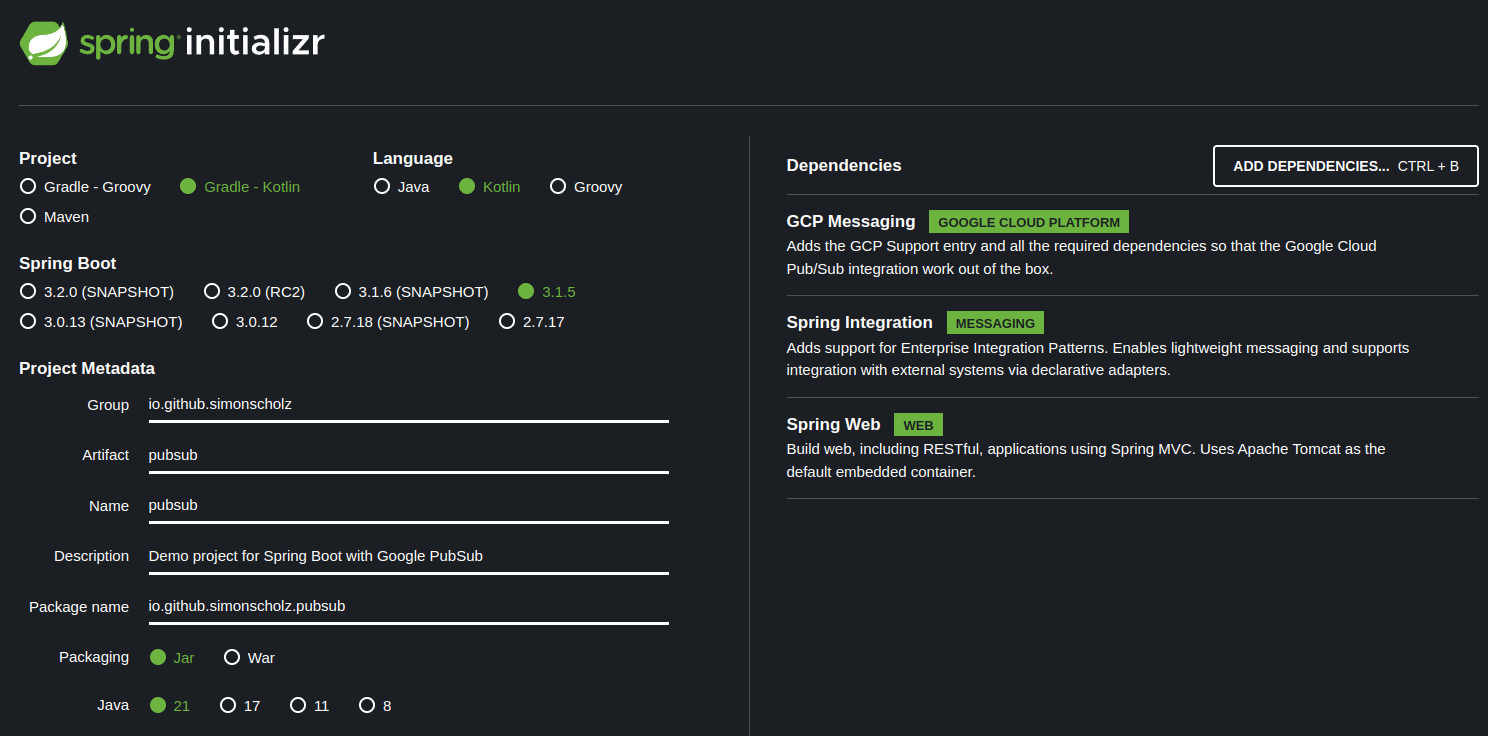
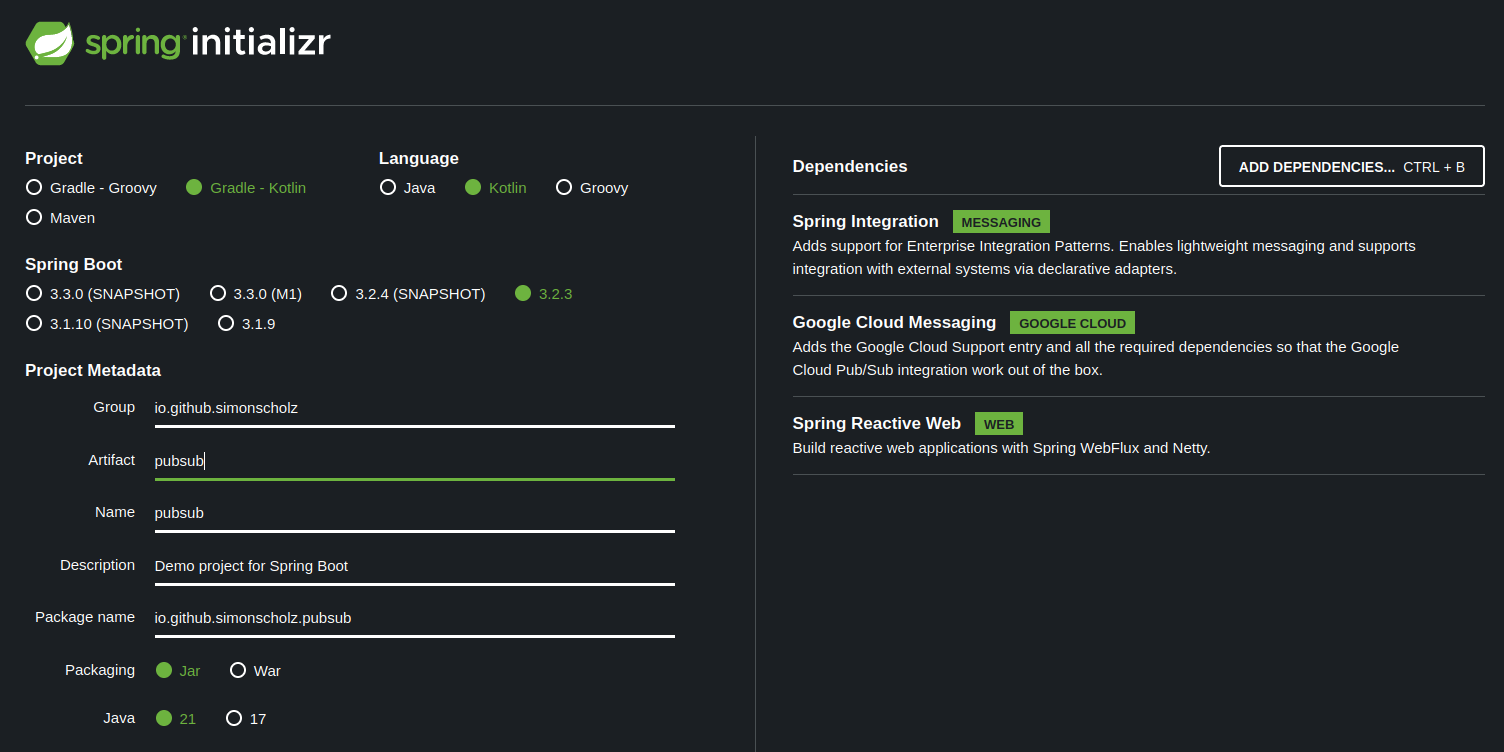
[PubSub] Add more details to the Spring Boot Message Setup

diff --git a/content/tutorials/spring-quarkus-google-pubsub/index.md b/content/tutorials/spring-quarkus-google-pubsub/index.md
@@ -2,7 +2,7 @@
 id: "spring-quarkus-google-pubsub"
 path: "/tutorials/spring-quarkus-google-pubsub"
 created: "2023-11-11"
-updated: "2023-11-11"
+updated: "2023-02-28"
 title: "Google Cloud Pub/Sub (emulator) with Spring Boot and Quarkus"
 description: "Make use of the Google Cloud Pub/Sub (emulator) with Spring Boot and Quarkus"
 author: "Simon Scholz"
@@ -72,6 +72,12 @@ curl -s -X PUT 'http://0.0.0.0:8685/v1/projects/sample-project-id/subscriptions/
 tail -f /dev/null
 ```
 
+Make sure that the `init-pubsub.sh` script is executable:
+
+```bash
+chmod +x init-pubsub.sh
+```
+
 The `&` at the end of the emulator start command is used to run the emulator in the background. The `tail -f /dev/null` command is used to keep the container alive.
 
 Check if topics and subscriptions were created successfully:
@@ -93,7 +99,7 @@ curl -X POST "http://0.0.0.0:8685/v1/projects/sample-project-id/topics/user-crea
   "messages": [
     {
       "attributes": {
-        "ID": "12345",
+        "DOMAIN_OBJECT_ID": "12345",
         "anotherKey": "anotherValue"
       }
     }
@@ -110,16 +116,16 @@ curl -X POST "http://0.0.0.0:8685/v1/projects/sample-project-id/topics/user-crea
   "messages": [
     {
       "attributes": {
-        "ID": "12345",
+        "DOMAIN_OBJECT_ID": "12345",
         "anotherKey": "anotherValue"
       },
-      "data": "eyJJRCI6ICIxMjM0NSIsICJuYW1lIjogIkpvaG4gRG9lIn0="
[1 lines of base64/hex data omitted]
     }
   ]
 }'
 ```
 
-The actual json data is `{"ID": "12345", "name": "John Doe"}`, but it must be base64 encoded.
+The actual json data is `{"DOMAIN_OBJECT_ID": "12345", "name": "John Doe"}`, but it must be base64 encoded.
 Also see [Publishing json message to PubSub](https://cloud.google.com/knowledge/kb/publishing-json-message-to-pub-sub-topic-fails-with-400-bad-request-error-000004171)
 
 The first example does not use the `data` property, since it is optional. 
@@ -158,7 +164,7 @@ The return value of a pull should look similar to this:
     "ackId": "projects/sample-project-id/subscriptions/user-created-topic-sub:1",
     "message": {
       "attributes": {
-        "ID": "12345",
+        "DOMAIN_OBJECT_ID": "12345",
         "anotherKey": "anotherValue"
       },
       "messageId": "1",
@@ -191,11 +197,11 @@ Start by creating a new Spring Boot project. You can use the Spring Initializer 
 You just need to make sure to add the following dependencies:
 
 ```kotlin [build.gradle.kts]
+implementation("org.springframework.boot:spring-boot-starter-integration")
 implementation("com.google.cloud:spring-cloud-gcp-starter-pubsub")
-implementation("org.springframework.integration:spring-integration-core")
 
 // optional, but helpful to use rest to test publishing
-implementation("org.springframework.boot:spring-boot-starter-web")
+implementation("org.springframework.boot:spring-boot-starter-webflux")
 ```
 
 ### Configure Application Properties
@@ -217,7 +223,7 @@ spring:
 To configure the Google Cloud project ID and credentials, we need to create a `@Configuration` like this:
 
 ```kotlin [GcpConfig.kt]
-package io.github.simonscholz.pubsub.config
+package io.github.simonscholz.pubsub
 
 import com.google.api.gax.core.CredentialsProvider
 import com.google.api.gax.core.NoCredentialsProvider
@@ -225,6 +231,7 @@ import com.google.cloud.spring.core.GcpProjectIdProvider
 import org.springframework.beans.factory.annotation.Value
 import org.springframework.context.annotation.Bean
 import org.springframework.context.annotation.Configuration
+import org.springframework.context.annotation.Profile
 
 @Configuration
 @Profile("local")
@@ -251,7 +258,7 @@ On how to do this with secrets, environment variables and terraform see later se
 
 To subscribe to a Google Cloud Pub/Sub topic, we need to create a `@Configuration` like this:
 
-```kotlin [PubSubConfiguration.kt]
+```kotlin [PubSubConfig.kt]
 package io.github.simonscholz.pubsub
 
 import com.google.cloud.spring.pubsub.core.PubSubTemplate
@@ -273,13 +280,12 @@ import org.springframework.messaging.MessageHandler
 @Configuration
 class PubSubConfig {
 
-    private val LOGGER: Logger = LoggerFactory.getLogger(PubSubConfig::class.java)
-
     @Bean
     fun messageChannelAdapter(
         @Qualifier("pubsubInputChannel") inputChannel: MessageChannel,
         pubSubTemplate: PubSubTemplate,
-    ): PubSubInboundChannelAdapter = PubSubInboundChannelAdapter(pubSubTemplate, "sample-topic-sub").apply {
+    ): PubSubInboundChannelAdapter =
+        PubSubInboundChannelAdapter(pubSubTemplate, "user-created-json-topic-sub").apply {
             outputChannel = inputChannel
             setAckMode(AckMode.MANUAL)
         }
@@ -291,15 +297,123 @@ class PubSubConfig {
     @ServiceActivator(inputChannel = "pubsubInputChannel")
     fun messageReceiver(): MessageHandler =
         MessageHandler { message ->
-            LOGGER.info("Message arrived! Payload: " + String((message.payload as ByteArray)))
+            LOGGER.info("Message arrived! Payload: ${String((message.payload as ByteArray))}")
+            LOGGER.info("Headers: ${message.headers}")
             val originalMessage: BasicAcknowledgeablePubsubMessage? = message.headers.get(GcpPubSubHeaders.ORIGINAL_MESSAGE, BasicAcknowledgeablePubsubMessage::class.java)
-            LOGGER.info(originalMessage?.pubsubMessage?.data?.toStringUtf8())
+            LOGGER.info("Data: ${originalMessage?.pubsubMessage?.data?.toStringUtf8()}")
+            LOGGER.info("Attributes: ${originalMessage?.pubsubMessage?.attributesMap}")
             originalMessage?.ack()
         }
+
+    companion object {
+        private val LOGGER: Logger = LoggerFactory.getLogger(PubSubConfig::class.java)
+    }
 }
 ```
 
-Alternatively, you can use the `@ServiceActivator` annotation in a separate `@Component` to subscribe to a Google Cloud Pub/Sub topic:
+When having the `PubSubInboundChannelAdapter` bean and `MessageChannel` bean, the `@ServiceActivator` bean will be called when a message arrives.
+
+There are many different ways to use a `@ServiceActivator`, the following examples will illustrate some of them.
+
+### Using a MessageHandler bean
+
+You can use a `MessageHandler` instance to subscribe to a Google Cloud Pub/Sub topic:
+
+```kotlin [PubSubConfig.kt]
+package io.github.simonscholz.pubsub
+
+import com.google.cloud.spring.pubsub.core.PubSubTemplate
+import com.google.cloud.spring.pubsub.integration.AckMode
+import com.google.cloud.spring.pubsub.integration.inbound.PubSubInboundChannelAdapter
+import com.google.cloud.spring.pubsub.support.BasicAcknowledgeablePubsubMessage
+import com.google.cloud.spring.pubsub.support.GcpPubSubHeaders
+import org.slf4j.Logger
+import org.slf4j.LoggerFactory
+import org.springframework.beans.factory.annotation.Qualifier
+import org.springframework.context.annotation.Bean
+import org.springframework.context.annotation.Configuration
+import org.springframework.integration.annotation.ServiceActivator
+import org.springframework.integration.channel.DirectChannel
+import org.springframework.messaging.MessageChannel
+import org.springframework.messaging.MessageHandler
+
+
+@Configuration
+class PubSubConfig {
+
+    @Bean
+    fun messageChannelAdapter(
+        @Qualifier("pubsubInputChannel") inputChannel: MessageChannel,
+        pubSubTemplate: PubSubTemplate,
+    ): PubSubInboundChannelAdapter =
+        PubSubInboundChannelAdapter(pubSubTemplate, "user-created-json-topic-sub").apply {
+            outputChannel = inputChannel
+            setAckMode(AckMode.MANUAL)
+        }
+
+    @Bean
+    fun pubsubInputChannel(): MessageChannel = DirectChannel()
+
+    @Bean
+    @ServiceActivator(inputChannel = "pubsubInputChannel")
+    fun messageReceiver(): MessageHandler =
+        MessageHandler { message ->
+            LOGGER.info("Message arrived! Payload: ${String((message.payload as ByteArray))}")
+            LOGGER.info("Headers: ${message.headers}")
+            val originalMessage: BasicAcknowledgeablePubsubMessage? = message.headers.get(GcpPubSubHeaders.ORIGINAL_MESSAGE, BasicAcknowledgeablePubsubMessage::class.java)
+            LOGGER.info("Data: ${originalMessage?.pubsubMessage?.data?.toStringUtf8()}")
+            LOGGER.info("Attributes: ${originalMessage?.pubsubMessage?.attributesMap}")
+            originalMessage?.ack()
+        }
+
+    companion object {
+        private val LOGGER: Logger = LoggerFactory.getLogger(PubSubConfig::class.java)
+    }
+}
+```
+
+### Using a `@ServiceActivator` with `@Payload` and `@Header` annotations
+
+You can use a `@ServiceActivator` with `@Payload` and `@Header` annotations to subscribe to a Google Cloud Pub/Sub topic:
+
+```kotlin [Receiver.kt]
+package io.github.simonscholz.pubsub
+
+import com.google.cloud.spring.pubsub.support.BasicAcknowledgeablePubsubMessage
+import com.google.cloud.spring.pubsub.support.GcpPubSubHeaders
+import org.slf4j.LoggerFactory
+import org.springframework.integration.annotation.ServiceActivator
+import org.springframework.messaging.handler.annotation.Header
+import org.springframework.messaging.handler.annotation.Payload
+import org.springframework.stereotype.Component
+
+@Component
+class Receiver {
+
+    @ServiceActivator(inputChannel = "pubsubInputChannel")
+    fun messageReceiver(
+        @Header(GcpPubSubHeaders.ORIGINAL_MESSAGE) message: BasicAcknowledgeablePubsubMessage,
+        @Header("DOMAIN_OBJECT_ID") domainObjectId: String,
+        @Payload payload: String,
+    ) {
+        LOGGER.info("Message arrived! ORIGINAL_MESSAGE: $message")
+        LOGGER.info("DOMAIN_OBJECT_ID: $domainObjectId")
+        LOGGER.info("Payload: $payload")
+        message.ack()
+    }
+
+    companion object {
+        private val LOGGER = LoggerFactory.getLogger(Receiver::class.java)
+    }
+}
+```
+
+It is convenient to use the `@Header` and `@Payload` annotations to obtain the message payload and headers.
+There this is my preferred way to use the `@ServiceActivator` annotation.
+
+### Just obtain the message payload
+
+You can even just obtain the message payload in the `@ServiceActivator` method:
 
 ```kotlin [Receiver.kt]
 package io.github.simonscholz.pubsub
@@ -322,23 +436,27 @@ class Receiver {
 }
 ```
 
+This is less explicit, but it is possible to obtain the message payload directly without using the `@Header` and `@Payload` annotations.
+
+### Test the Subscription
+
 To test the subscription, you can use the following `curl` command:
 
 ```bash
-curl -X POST "http://0.0.0.0:8685/v1/projects/sample-project-id/topics/user-created-json-topic:publish" \
--H "Content-Type: application/json" \
--d '{
+curl -X POST "http://0.0.0.0:8685/v1/projects/sample-project-id/topics/user-created-json-topic:publish" -H "Content-Type: application/json" -d '{
   "messages": [
     {
       "attributes": {
-        "ID": "12345",
+        "DOMAIN_OBJECT_ID": "12345",
         "anotherKey": "anotherValue"
       },
-      "data": "MESSAGE_DATA"
[1 lines of base64/hex data omitted]
     }
   ]
 }'
 ```
+
+Watch the logs of the Spring Boot application to see the message being received.
 
 # Sources
 
